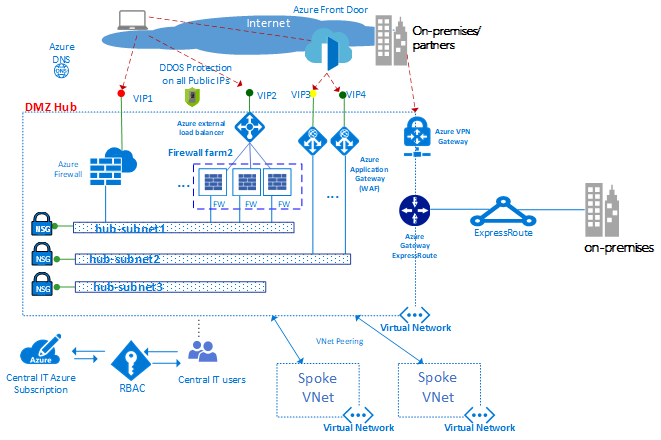
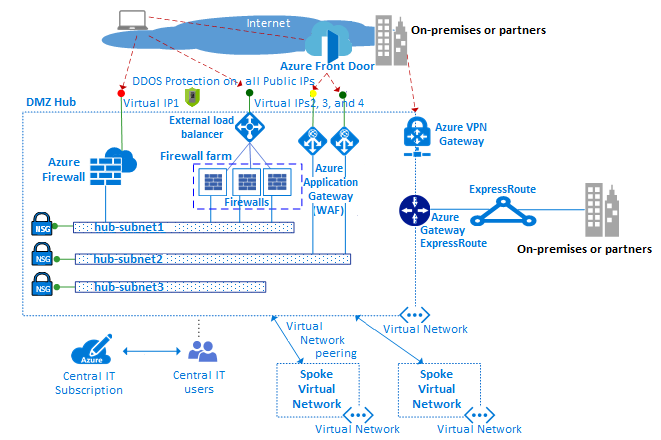
first pass

diff --git a/docs/ready/azure-best-practices/perimeter-networks.md b/docs/ready/azure-best-practices/perimeter-networks.md
@@ -20,11 +20,11 @@ Internet-bound packets from workloads must also flow through security appliances
 
 Perimeter networks use the following Azure features and services:
 
-- [Virtual networks][virtual-networks], [user-defined routes][user-defined-routes], and [network security groups][network-security-groups]
-- [Azure Application Gateway][appgw] with [Web Application Firewall (WAF)][appgwwaf]
+- [Virtual networks][virtual-networks], [user-defined routes][user-defined-routes], and [network security groups (NSGs)][network-security-groups]
 - [Azure Firewall][azure-firewall]
+- [Azure Web Application Firewall][appgwwaf] on [Azure Application Gateway][appgw]
+- [Azure Web Application Firewall][afdwaf] on [Azure Front Door][afd]
 - [Other network virtual appliances (NVAs)][network-virtual-appliances]
-- [Azure Web Application Firewall on Azure Front Door][afdwaf]
 - [Azure Load Balancer][alb]
 - [Public IP addresses][public-ip]
 
@@ -32,19 +32,19 @@ Central IT teams and security teams are usually responsible for defining operati
 
 - [Implement a perimeter network between Azure and your on-premises datacenter](/azure/architecture/reference-architectures/dmz/secure-vnet-dmz)
 - [Implement a perimeter network between Azure and the internet](/azure/architecture/reference-architectures/dmz/secure-vnet-dmz?toc=/azure/cloud-adoption-framework/toc.json&bc=/azure/cloud-adoption-framework/_bread/toc.json)
-For more information, see [Perimeter networks][perimeter-network].
+For more information about perimeter networks, see [The virtual datacenter: A network perspective][perimeter-network].
 
 ## Perimeter network topology
 
-The following diagram shows an example [hub and spoke network](./hub-spoke-network-topology.md) that enforces two perimeter networks, with access to the internet and to an on-premises network.
+The following diagram shows an example [hub and spoke network](./hub-spoke-network-topology.md) with two perimeter networks, which enforce access to the internet and to an on-premises network.
 
 ![Diagram that shows an example of a hub and spoke network topology with two perimeter networks.](../../_images/azure-best-practices/network-high-level-perimeter-networks.png)
 
-In this network topology, both perimeter networks are in the DMZ hub. In the DMZ hub, the perimeter network to the internet can scale up to support many lines of business. This support uses multiple farms of WAFs and Azure Firewall instances that help protect the spoke virtual networks. The hub also allows connectivity via virtual private network (VPN) or Azure ExpressRoute as needed.
+In this network topology, both perimeter networks are in the DMZ hub. In the DMZ hub, the perimeter network to the internet can scale up to support many lines of business. This support uses multiple farms of web application firewalls (WAFs) and Azure Firewall instances that help protect the spoke virtual networks. The hub also allows connectivity via virtual private network (VPN) or Azure ExpressRoute as needed.
 
 ## Virtual networks
 
-Perimeter networks are typically built within [virtual networks][virtual-networks]. The virtual network uses multiple subnets to host the different types of services that filter and inspect traffic to or from other networks or the internet. These services include NVAs, WAFs, and Azure Application Gateway instances.
+Perimeter networks are typically built within [virtual networks][virtual-networks]. The virtual network uses multiple subnets to host the different types of services that filter and inspect traffic to or from other networks or the internet. These services include NVAs, WAFs, and Application Gateway instances.
 
 ## User-defined routes
 
@@ -62,68 +62,66 @@ Azure Firewall uses a static public IP address for virtual network resources. Ou
 
 ## Network virtual appliances
 
-You can manage perimeter networks with access to the internet through Azure Firewall or through a farm of firewalls or [web application firewalls][afdwaf].
+You can manage perimeter networks with access to the internet through Azure Firewall or through a farm of firewalls or WAFs.
 
-Different lines of business use many web applications, which can suffer from various vulnerabilities and potential exploits. A web application firewall detects attacks against HTTP/S web applications in more depth than a generic firewall. Compared with traditional firewall technology, web application firewalls have a set of specific features to help protect internal web servers from threats.
+Different lines of business use many different web applications, which can suffer from various vulnerabilities and potential exploits. A WAF detects attacks against HTTP/S web applications in more depth than a generic firewall. Compared with traditional firewall technology, WAFs have a set of specific features to help protect internal web servers from threats.
 
-An Azure Firewall instance and a [network virtual appliance][network-virtual-appliances] firewall use a common administration plane with a set of security rules. These rules help protect the workloads hosted in the spokes and control access to on-premises networks. Azure Firewall has built-in scalability, and NVA firewalls can be manually scaled behind a load balancer.
+An Azure Firewall instance and an [NVA][network-virtual-appliances] firewall can use a common administration plane with a set of security rules. These rules help protect the workloads hosted in the spokes, and control access to on-premises networks. Azure Firewall has built-in scalability, and NVA firewalls can be manually scaled behind a load balancer.
 
-A firewall farm has less specialized software than a WAF. But it also has a broader application scope to filter and inspect any type of traffic in egress and ingress. If you use an NVA approach, you can find and deploy the software from the Azure Marketplace.
+A firewall farm has less specialized software than a WAF, but also has a broader application scope to filter and inspect any type of egress and ingress traffic. If you use an NVA approach, you can find and deploy software from the Azure Marketplace.
 
-Use one set of Azure Firewall instances or NVAs for traffic that originates on the internet. Then use another set for traffic that originates on-premises. Using only one set of firewalls for both is a security risk because it provides no security perimeter between the two sets of network traffic. Using separate firewall layers reduces the complexity of checking security rules and makes clear which rules correspond to which incoming network requests.
+Use one set of Azure Firewall instances or NVAs for traffic that originates on the internet, and another set for traffic that originates on-premises. Using only one set of firewalls for both kinds of traffic is a security risk, because there's no security perimeter between the two sets of network traffic. Using separate firewall layers reduces the complexity of checking security rules, and clarifies which rules correspond to which incoming network requests.
 
 ## Azure Load Balancer
 
-[Azure Load Balancer][alb] offers a high-availability Layer 4 (TCP/UDP) service. This service can distribute incoming traffic among service instances defined in a load-balanced set. Traffic sent to the load balancer from front-end endpoints, like public IP endpoints or private IP endpoints, can be redistributed with or without address translation to a pool of back-end IP addresses, like NVAs or VMs.
+[Azure Load Balancer][alb] offers a high-availability Layer 4 transmission control protocol/user datagram protocol (TCP/UDP) load balancing service. This service can distribute incoming traffic among service instances that a load-balancing set defines. Load Balancer can redistribute traffic from front-end public or private IP endpoints, with or without address translation, to a pool of back-end IP addresses like NVAs or VMs.
 
-Azure Load Balancer can also probe the health of the various server instances. When an instance fails to respond to a probe, the load balancer stops sending traffic to the unhealthy instance.
+Load Balancer can also probe the health of the server instances. When an instance fails to respond to a probe, the load balancer stops sending traffic to the unhealthy instance.
 
-As an example of using a hub and spoke network topology, you can deploy an external load balancer to both the hub and the spokes. In the hub, the load balancer efficiently routes traffic to services in the spokes. The load balancer in the spokes manages application traffic.
+In the hub and spoke network topology example, you deploy an external load balancer to both the hub and the spokes. In the hub, the load balancer efficiently routes traffic to services in the spokes. The load balancer in the spokes manages application traffic.
 
 ## Azure Front Door
 
-[Azure Front Door][afd] is Microsoft's highly available and scalable web application acceleration platform and global HTTPS load balancer. You can use Azure Front Door to build, operate, and scale out your dynamic web application and static content. It runs in more than 100 locations at the edge of Microsoft's global network.
+[Azure Front Door][afd] is a highly available and scalable web application acceleration platform and global HTTPS load balancer. You can use Azure Front Door to build, operate, and scale out your dynamic web application and static content. Azure Front Door runs in more than 100 locations at the edge of Microsoft's global network.
 
 Azure Front Door provides your application with:
 
-- Unified regional and stamp maintenance automation
-- BCDR automation
-- Unified client and user information
-- Caching
-- Service insights
+- Unified regional and stamp maintenance automation.
+- Business continuity and disaster recovery (BCDR) automation.
+- Unified client and user information.
+- Caching.
+- Service insights.
 
-The platform offers performance, reliability, and support SLAs. It also offers compliance certifications and auditable security practices. Azure develops, operates, and natively supports these certifications and practices.
+Azure Front Door offers performance, reliability, and support service-level agreements (SLAs). Azure Front Door also offers compliance certifications and auditable security practices that Azure develops, operates, and natively supports.
 
 ## Azure Application Gateway
 
-[Azure Application Gateway][appgw] is a dedicated virtual appliance that gives you a managed application delivery controller. It offers various Layer 7 load-balancing capabilities for your application.
+[Azure Application Gateway][appgw] is a dedicated virtual appliance that gives you a managed application delivery controller. Application Gateway offers various Layer 7 load-balancing capabilities for your application.
 
-<!-- docutune:casing "the application gateway" "single application gateway" -->
-
-Azure Application Gateway allows you to optimize web farm productivity by offloading CPU-intensive SSL termination to the application gateway. It also provides other Layer 7 routing capabilities, such as:  
+Application Gateway helps you optimize web farm productivity by offloading CPU-intensive secure socket layer (SSL) termination to the application gateway. It also provides other Layer 7 routing capabilities, such as:  
 
 - Round-robin distribution of incoming traffic.
 - Cookie-based session affinity.
 - URL path-based routing.
 - Hosting multiple websites behind a single application gateway.
 
-The Azure Application Gateway WAF SKU includes a Web Application Firewall. This SKU provides protection to web applications from common web vulnerabilities and exploits. You can configure Azure Application Gateway as an internet-facing gateway, an internal-only gateway, or a combination of both.
+The Application Gateway WAF SKU includes a WAF, and provides protection to web applications from common web vulnerabilities and exploits. You can configure Application Gateway as an internet-facing gateway, an internal-only gateway, or a combination of both.
 
 ## Public IPs
 
-With some Azure features, you can associate service endpoints to a [public IP][public-ip] address. With this option, your resource can be accessed from the internet. This endpoint uses network address translation (NAT) to route traffic to the internal address and port on the Azure virtual network. This path is the primary way for external traffic to pass into the virtual network. You can configure public IP addresses to determine what traffic is passed in, and how and where it's translated onto the virtual network.
+With some Azure features, you can associate service endpoints to a [public IP][public-ip] address. This option provides access to your resource from the internet. The endpoint uses network address translation (NAT) to route traffic to the internal address and port on the Azure virtual network. This path is the main way for external traffic to pass into the virtual network. You can configure public IP addresses to define what traffic is passed in, and how and where it's translated into the virtual network.
 
-## Azure DDoS Protection Standard
+## Azure DDoS Protection
 
-[Azure DDoS Protection Standard][ddos] provides extra mitigation capabilities over the [basic service][ddos] tier that are tuned specifically to Azure Virtual Network resources. DDoS protection standard is simple to enable and requires no application changes.
+[Azure DDoS Protection][ddos] provides extra mitigation capabilities to help protect your Azure resources in virtual networks from distributed denial of service (DDoS) attacks. DDoS Protection has two SKUs, DDoS IP Protection and DDoS Network Protection. For more information, see [About Azure DDoS Protection SKU Comparison](/azure/ddos-protection/ddos-protection-sku-comparison).
 
-You can tune protection policies through dedicated traffic monitoring and machine-learning algorithms. Policies are applied to public IP addresses associated to resources deployed in virtual networks. Examples include Azure Load Balancer, Application Gateway, and Service Fabric instances.
+DDoS Protection is easy to enable and requires no application changes. You can tune protection policies through dedicated traffic monitoring and machine-learning algorithms. DDoS Protection provides protection for IPv4 Azure public IP addresses. Policies apply to public IP addresses associated with resources deployed in virtual networks. Examples include Load Balancer, Application Gateway, and Azure Service Fabric instances.
 
-Real-time telemetry is available through Azure Monitor views both during an attack and for historical purposes. You can add application-layer protection by using the Web Application Firewall in Azure Application Gateway. Protection is provided for IPv4 Azure public IP addresses.
+Real-time telemetry is available through Azure Monitor views, both during an attack and for historical purposes. You can add application-layer protection by using Web Application Firewall in Application Gateway. 
 
 ## Next steps
 
-Learn how to efficiently manage common communication or security requirements by using the [hub-and-spoke network topology](hub-spoke-network-topology.md) model.
+Learn how to efficiently manage common communication or security requirements by using the [hub and spoke network topology](hub-spoke-network-topology.md) model.
 
 <!-- links -->
 
